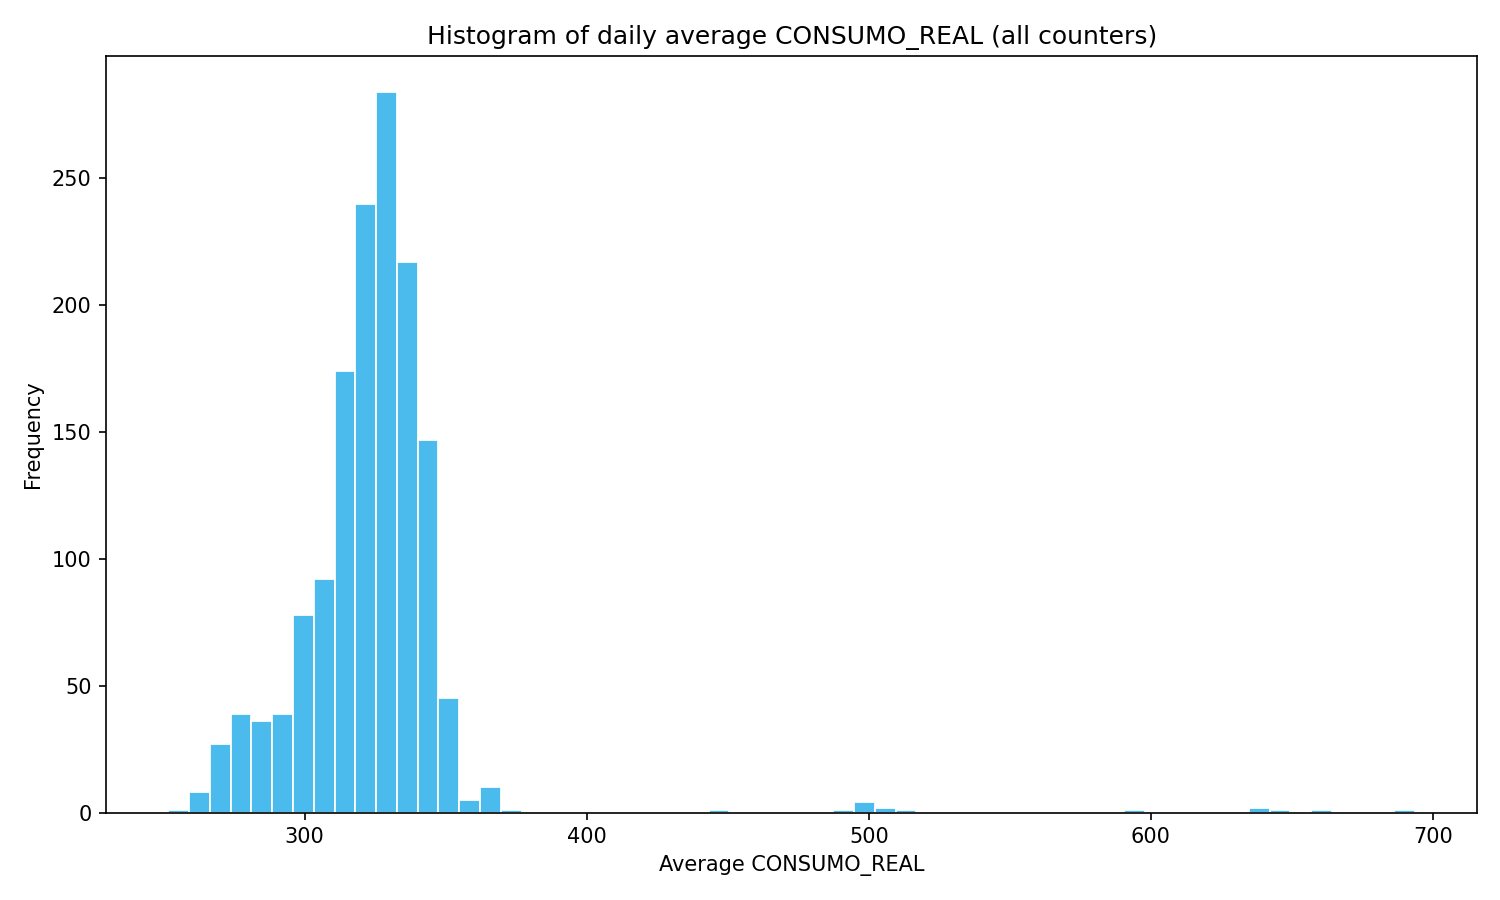
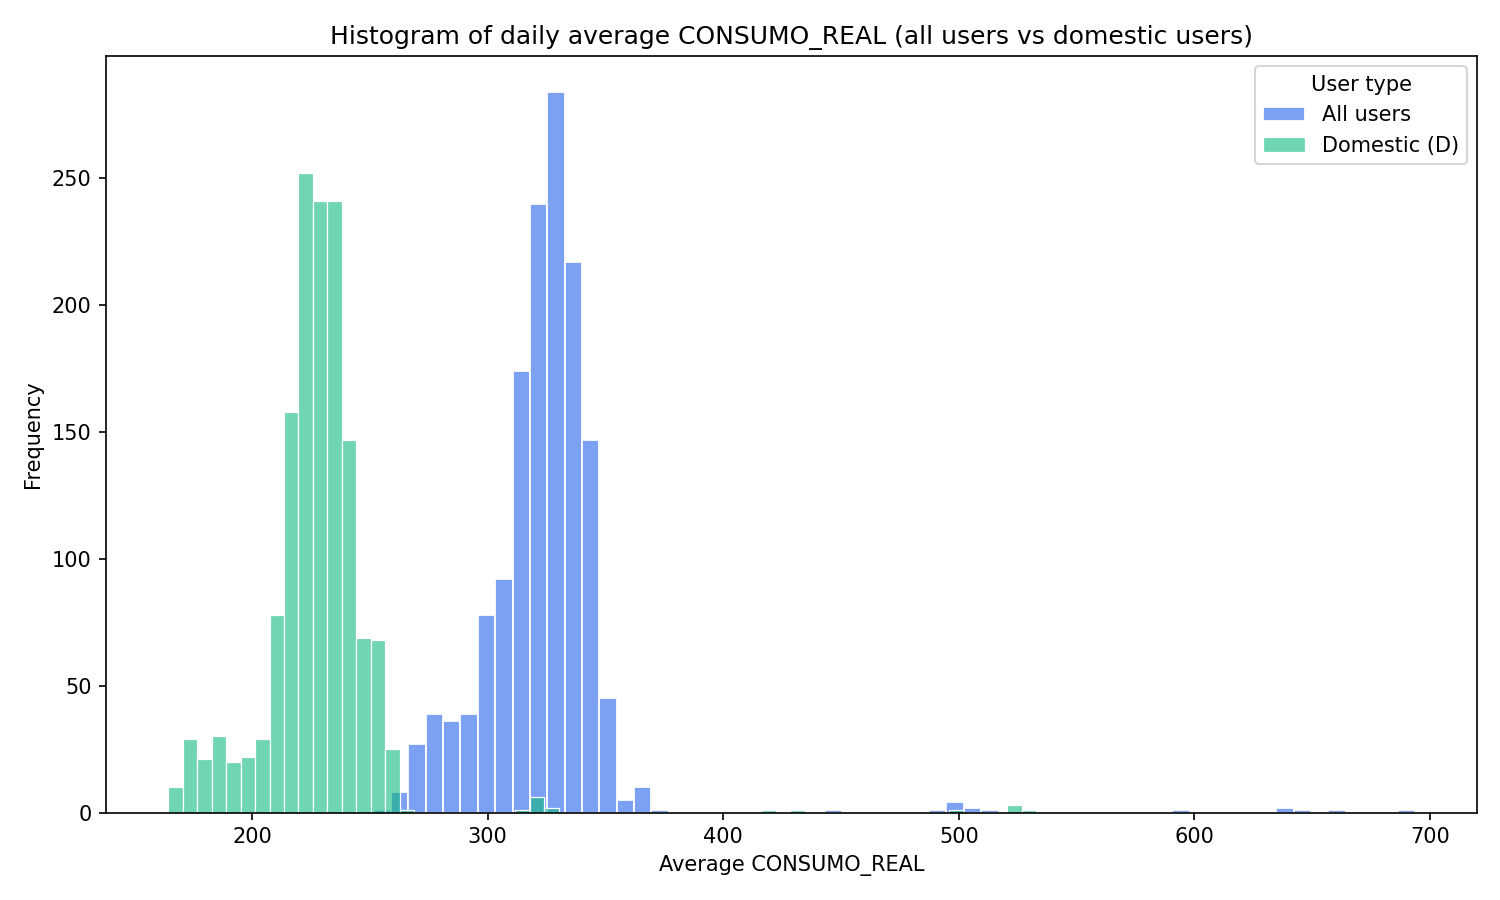
Added distributions

diff --git a/data/investigate_peaks.py b/data/investigate_peaks.py
@@ -1,0 +1,171 @@
+"""
+Investigate the two peaks in the average CONSUMO_REAL graph.
+
+Checks:
+1. Number of counters contributing on peak days vs normal days
+2. Distribution of individual counter values (mean vs median)
+3. Top outlier counters on peak days
+4. Whether the peaks are due to fewer counters or extreme values
+"""
+
+import argparse
+from pathlib import Path
+
+import duckdb
+import pandas as pd
+import matplotlib.pyplot as plt
+import seaborn as sns
+
+
+def parse_args():
+    p = argparse.ArgumentParser(description="Investigate peaks in average CONSUMO_REAL")
+    p.add_argument(
+        "--parquet",
+        type=str,
+        default="data/Dades_Comptadors_anonymized.parquet",
+        help="Path to parquet file",
+    )
+    return p.parse_args()
+
+
+def main():
+    args = parse_args()
+    
+    parquet_path = Path(args.parquet)
+    if not parquet_path.exists():
+        alt = Path(__file__).with_name(parquet_path.name)
+        if alt.exists():
+            parquet_path = alt
+        else:
+            raise FileNotFoundError(f"Parquet file not found: {args.parquet}")
+    
+    con = duckdb.connect()
+    
+    # Get daily stats for all users
+    sql = f"""
+        SELECT 
+            FECHA::DATE AS day,
+            COUNT(*) AS num_readings,
+            COUNT(DISTINCT "POLIZA_SUMINISTRO") AS num_counters,
+            AVG(CONSUMO_REAL) AS mean_consumo,
+            MEDIAN(CONSUMO_REAL) AS median_consumo,
+            PERCENTILE_CONT(0.95) WITHIN GROUP (ORDER BY CONSUMO_REAL) AS p95_consumo,
+            PERCENTILE_CONT(0.99) WITHIN GROUP (ORDER BY CONSUMO_REAL) AS p99_consumo,
+            MAX(CONSUMO_REAL) AS max_consumo
+        FROM '{parquet_path.as_posix()}'
+        WHERE CONSUMO_REAL IS NOT NULL
+        GROUP BY FECHA::DATE
+        ORDER BY day
+    """
+    
+    daily_stats = con.execute(sql).df()
+    daily_stats["day"] = pd.to_datetime(daily_stats["day"]).dt.tz_localize(None)
+    
+    # Identify peak days (top 20 days by mean)
+    peak_days = daily_stats.nlargest(20, "mean_consumo")
+    
+    print("=" * 80)
+    print("TOP 20 PEAK DAYS (by mean CONSUMO_REAL):")
+    print("=" * 80)
+    print(peak_days[["day", "mean_consumo", "median_consumo", "num_counters", "p95_consumo", "p99_consumo", "max_consumo"]].to_string())
+    
+    # Compare peak days to normal days
+    normal_days = daily_stats.nsmallest(100, "mean_consumo")
+    
+    print("\n" + "=" * 80)
+    print("COMPARISON: Peak Days vs Normal Days")
+    print("=" * 80)
+    print(f"\nPeak Days (top 20):")
+    print(f"  Mean consumo: {peak_days['mean_consumo'].mean():.2f}")
+    print(f"  Median consumo: {peak_days['median_consumo'].mean():.2f}")
+    print(f"  Avg num counters: {peak_days['num_counters'].mean():.0f}")
+    print(f"  P95: {peak_days['p95_consumo'].mean():.2f}")
+    print(f"  P99: {peak_days['p99_consumo'].mean():.2f}")
+    print(f"  Max: {peak_days['max_consumo'].mean():.2f}")
+    
+    print(f"\nNormal Days (bottom 100):")
+    print(f"  Mean consumo: {normal_days['mean_consumo'].mean():.2f}")
+    print(f"  Median consumo: {normal_days['median_consumo'].mean():.2f}")
+    print(f"  Avg num counters: {normal_days['num_counters'].mean():.0f}")
+    print(f"  P95: {normal_days['p95_consumo'].mean():.2f}")
+    print(f"  P99: {normal_days['p99_consumo'].mean():.2f}")
+    print(f"  Max: {normal_days['max_consumo'].mean():.2f}")
+    
+    # Check if mean >> median (indicates outliers)
+    peak_ratio = peak_days['mean_consumo'].mean() / peak_days['median_consumo'].mean()
+    normal_ratio = normal_days['mean_consumo'].mean() / normal_days['median_consumo'].mean()
+    
+    print(f"\nMean/Median ratio:")
+    print(f"  Peak days: {peak_ratio:.2f} (higher = more skewed by outliers)")
+    print(f"  Normal days: {normal_ratio:.2f}")
+    
+    if peak_ratio > 1.5:
+        print("\n⚠  WARNING: Peak days show high mean/median ratio - likely caused by outliers!")
+    
+    # Get top outlier counters on peak days
+    peak_day_list = peak_days['day'].dt.strftime('%Y-%m-%d').tolist()
+    peak_days_str = "', '".join(peak_day_list)
+    
+    sql_outliers = f"""
+        SELECT 
+            FECHA::DATE AS day,
+            "POLIZA_SUMINISTRO" AS counter_id,
+            CONSUMO_REAL,
+            "US_AIGUA_GEST" AS user_type
+        FROM '{parquet_path.as_posix()}'
+        WHERE FECHA::DATE IN ('{peak_days_str}')
+          AND CONSUMO_REAL IS NOT NULL
+        ORDER BY CONSUMO_REAL DESC
+        LIMIT 50
+    """
+    
+    top_outliers = con.execute(sql_outliers).df()
+    top_outliers["day"] = pd.to_datetime(top_outliers["day"]).dt.tz_localize(None)
+    
+    print("\n" + "=" * 80)
+    print("TOP 50 OUTLIER READINGS ON PEAK DAYS:")
+    print("=" * 80)
+    print(top_outliers[["day", "counter_id", "CONSUMO_REAL", "user_type"]].to_string())
+    
+    # Check if same counters appear multiple times
+    counter_counts = top_outliers['counter_id'].value_counts()
+    print("\n" + "=" * 80)
+    print("COUNTERS APPEARING MULTIPLE TIMES IN TOP OUTLIERS:")
+    print("=" * 80)
+    repeat_counters = counter_counts[counter_counts > 1]
+    if len(repeat_counters) > 0:
+        print(repeat_counters)
+        print("\n⚠  These counters may have systematic issues!")
+    else:
+        print("No counters appear multiple times - peaks are likely from different counters each time.")
+    
+    # Plot: Mean vs Median over time
+    plt.figure(figsize=(14, 6))
+    plt.plot(daily_stats['day'], daily_stats['mean_consumo'], label='Mean', alpha=0.7, color='blue')
+    plt.plot(daily_stats['day'], daily_stats['median_consumo'], label='Median', alpha=0.7, color='green')
+    plt.xlabel('Date')
+    plt.ylabel('CONSUMO_REAL')
+    plt.title('Mean vs Median CONSUMO_REAL over time (large gap = outliers skewing average)')
+    plt.legend()
+    plt.tight_layout()
+    out_path = Path('data/peak_investigation_mean_vs_median.png')
+    out_path.parent.mkdir(parents=True, exist_ok=True)
+    plt.savefig(out_path, dpi=150)
+    print(f"\nSaved mean vs median plot to {out_path}")
+    
+    # Plot: Number of counters over time
+    plt.figure(figsize=(14, 6))
+    plt.plot(daily_stats['day'], daily_stats['num_counters'], alpha=0.7, color='purple')
+    plt.xlabel('Date')
+    plt.ylabel('Number of counters')
+    plt.title('Number of counters contributing to daily average (drops = fewer data points)')
+    plt.tight_layout()
+    out_path = Path('data/peak_investigation_num_counters.png')
+    plt.savefig(out_path, dpi=150)
+    print(f"Saved num counters plot to {out_path}")
+
+
+if __name__ == "__main__":
+    main()
+
+

diff --git a/data/plot_consumo_avg_all.py b/data/plot_consumo_avg_all.py
@@ -1,5 +1,8 @@
 """
-Average CONSUMO_REAL over dates across ALL counters (no zero-run or min/max filters).
+Average CONSUMO_REAL over dates: ALL users vs DOMESTIC (D) users comparison.
+
+Plots both all users and domestic users on the same graphs for comparison.
+No zero-run or min/max filters applied.
 
 Usage:
   python data/plot_consumo_avg_all.py \
@@ -21,7 +24,7 @@ import matplotlib.pyplot as plt
 
 
 def parse_args() -> argparse.Namespace:
-    p = argparse.ArgumentParser(description="Plot average CONSUMO_REAL over time (all counters)")
+    p = argparse.ArgumentParser(description="Plot average CONSUMO_REAL over time (all users vs domestic users)")
     p.add_argument(
         "--parquet",
         type=str,
@@ -64,31 +67,52 @@ def main() -> None:
 
     con = duckdb.connect()
 
-    sql = f"""
+    # Query for all users
+    sql_all = f"""
         SELECT 
             FECHA::DATE AS day,
-            CONSUMO_REAL
+            CONSUMO_REAL,
+            'All users' AS user_type
         FROM '{parquet_path.as_posix()}'
         WHERE CONSUMO_REAL IS NOT NULL
     """
-    df = con.execute(sql).df()
-    if df.empty:
+    
+    # Query for domestic users only
+    sql_domestic = f"""
+        SELECT 
+            FECHA::DATE AS day,
+            CONSUMO_REAL,
+            'Domestic (D)' AS user_type
+        FROM '{parquet_path.as_posix()}'
+        WHERE CONSUMO_REAL IS NOT NULL
+          AND "US_AIGUA_GEST" = 'D'
+    """
+    
+    df_all = con.execute(sql_all).df()
+    df_domestic = con.execute(sql_domestic).df()
+    
+    if df_all.empty and df_domestic.empty:
         print("No data found in the provided parquet.")
         return
-
+    
+    # Combine both datasets
+    df = pd.concat([df_all, df_domestic], ignore_index=True)
+    
     df["day"] = pd.to_datetime(df["day"]).dt.tz_localize(None)
     if args.years > 0:
         end_date = df["day"].max()
         start_date = end_date - pd.DateOffset(years=args.years)
         df = df[(df["day"] >= start_date) & (df["day"] <= end_date)].copy()
 
-    # Daily average across all counters
-    daily_avg = df.groupby("day")["CONSUMO_REAL"].mean().reset_index(name="avg_consumo")
+    # Daily average per user type
+    daily_avg = df.groupby(["day", "user_type"])["CONSUMO_REAL"].mean().reset_index(name="avg_consumo")
 
+    # Apply smoothing per user type
     if args.smooth_days and args.smooth_days > 1:
-        daily_avg = daily_avg.sort_values("day").copy()
+        daily_avg = daily_avg.sort_values(["user_type", "day"]).copy()
         daily_avg["avg_consumo_smooth"] = (
-            daily_avg["avg_consumo"].rolling(args.smooth_days, min_periods=1).mean()
+            daily_avg.groupby("user_type")["avg_consumo"]
+            .transform(lambda s: s.rolling(args.smooth_days, min_periods=1).mean())
         )
         y_col = "avg_consumo_smooth"
         y_label = f"Average CONSUMO_REAL ({args.smooth_days}-day mean)"
@@ -96,25 +120,30 @@ def main() -> None:
         y_col = "avg_consumo"
         y_label = "Average CONSUMO_REAL"
 
-    # Plot line
+    # Plot line - both on same graph
     plt.figure(figsize=(12, 6))
-    sns.lineplot(data=daily_avg, x="day", y=y_col, color="#2563eb")
-    plt.title("Average CONSUMO_REAL over time (all counters)")
+    sns.lineplot(data=daily_avg, x="day", y=y_col, hue="user_type", palette=["#2563eb", "#10b981"])
+    plt.title("Average CONSUMO_REAL over time (all users vs domestic users)")
     plt.xlabel("Date")
     plt.ylabel(y_label)
+    plt.legend(title="User type")
     plt.tight_layout()
     out = Path(args.output)
     out.parent.mkdir(parents=True, exist_ok=True)
     plt.savefig(out, dpi=150)
     print(f"Saved figure to {out.as_posix()}")
 
-    # Histogram
-    values = daily_avg[y_col].dropna()
+    # Histogram - both on same graph
     plt.figure(figsize=(10, 6))
-    sns.histplot(values, bins=args.bins, stat="count", color="#0ea5e9", edgecolor="white")
-    plt.title("Histogram of daily average CONSUMO_REAL (all counters)")
+    for user_type, color in [("All users", "#2563eb"), ("Domestic (D)", "#10b981")]:
+        values = daily_avg[daily_avg["user_type"] == user_type][y_col].dropna()
+        if not values.empty:
+            sns.histplot(values, bins=args.bins, stat="count", label=user_type, 
+                        alpha=0.6, color=color, edgecolor="white")
+    plt.title("Histogram of daily average CONSUMO_REAL (all users vs domestic users)")
     plt.xlabel("Average CONSUMO_REAL")
     plt.ylabel("Frequency")
+    plt.legend(title="User type")
     plt.tight_layout()
     hist_out = Path(args.hist_output)
     hist_out.parent.mkdir(parents=True, exist_ok=True)
@@ -124,5 +153,6 @@ def main() -> None:
 
 if __name__ == "__main__":
     main()
+
 
 
